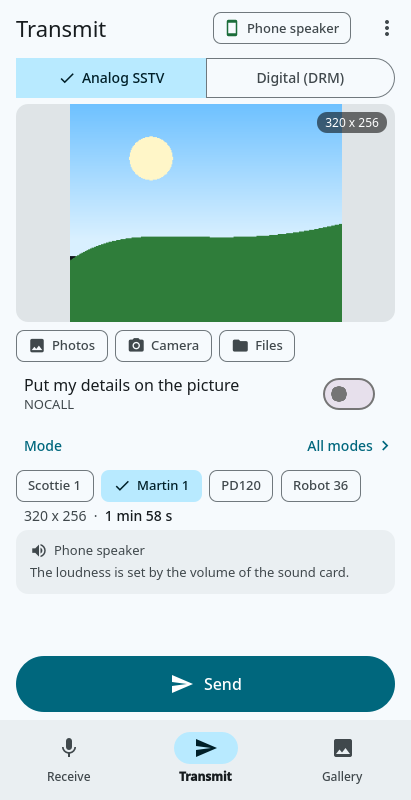
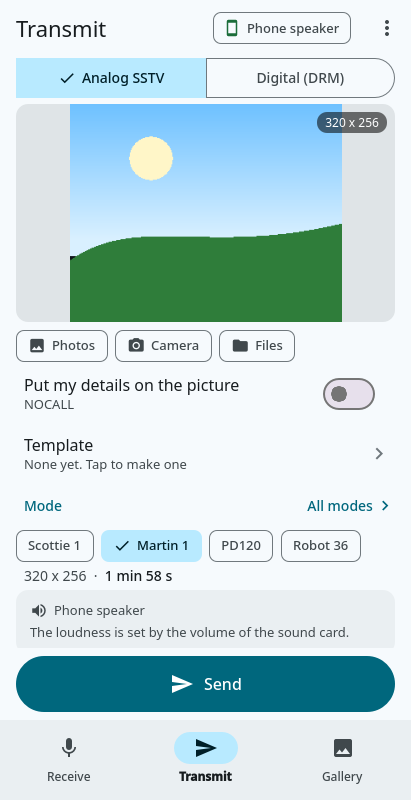
Android UI, stage 7 (a Template row on the Transmit screen, the User's Guide page, Settings > Templates goes to the Gallery).
Transmit: a Template row under the details switch shows the template on the picture; its sheet lists the templates with a small picture
of each (a tap chooses one and turns the template on), Edit this template, New template (the same starters as in the Gallery, now one
component). A template saved in the editor reaches the Transmit list and the Gallery as in the desktop dispatcher. The status bar icons stay
dark over the editor when it is opened from the black viewer. The keyboard goes with the name dialog.

Changed region(s): [[0.0584, 0.5312, 0.9051, 0.8125], [0.7591, 0.5312, 0.9051, 0.5625], [0.5255, 0.5938, 0.6423, 0.625]]

diff --git a/documentation/userguide/pages/android.html b/documentation/userguide/pages/android.html
@@ -63,6 +63,7 @@ title, the <strong>route chip</strong> that says where the sound goes (<em>Phone
 <ul>
 <li><strong>The picture.</strong> <span class="ui">Photos</span> opens Android's photo picker, <span class="ui">Camera</span> takes a picture, <span class="ui">Files</span> opens the file picker. A picture shared from another app (<em>Share &gt; QSSTV-Experimental</em>) arrives here too, and so does one chosen in the Gallery.</li>
 <li><strong>Put my details on the picture</strong> adds your call sign and the details below it; tap it to set who the picture is for and the report.</li>
+<li><strong>Template.</strong> The template that goes on the picture. Tap the row to choose another one from the list (with a small picture of each), to <span class="ui">Edit this template</span> or to make a <span class="ui">New template</span>; see <em>Templates</em> below.</li>
 <li><strong>The mode.</strong> The four buttons are favorites (Scottie 1, Martin 1, PD120, Robot 36); <span class="ui">All modes</span> lists every mode with its picture size and time. The time the transmission takes is always shown. On the <span class="ui">Digital (DRM)</span> side you choose one of the saved profiles and the size of the picture, with the estimated time.</li>
 <li><strong>Volume.</strong> The card at the bottom shows where the sound goes and the phone's media volume, with a slider; the volume keys of the phone work too. A red note appears when the volume is off.</li>
 <li><span class="ui">Send</span> starts the transmission. A full-screen page then shows the progress and the time left, keeps the screen on, and has <span class="ui">Stop</span>.</li>
@@ -82,6 +83,21 @@ title, the <strong>route chip</strong> that says where the sound goes (<em>Phone
 <li>Received pictures are also copied to the phone's own picture library, in <code>Pictures/QSSTV-Experimental</code>.</li>
 </ul>
 
+<h2>Templates</h2>
+<div class="shots">
+<figure><img src="../images/android-template-editor.png" alt="The template editor with a text chosen and its text, macros and size under the picture" loading="lazy"><figcaption>A text chosen: its text and size.</figcaption></figure>
+<figure><img src="../images/android-template-add.png" alt="The Add list: text, rectangle, ellipse, line, picture, replay window and color bar" loading="lazy"><figcaption>Add something.</figcaption></figure>
+</div>
+<p>A template puts your call sign, the report, the time and other details on a picture before it is sent. The editor shows the template over a sample picture, with sample values (<em>N0CALL</em>, <em>W1AW</em>, <em>595</em>) in place of the codes. <span class="ui">More &gt; Preview with sample data</span> switches to the codes themselves (<code>%m</code>, <code>%c</code>, <code>%r</code>).</p>
+<ul>
+<li><strong>Start.</strong> In the Gallery, on the <span class="ui">Templates</span> tab, <span class="ui">New template</span> offers a blank template and three starters. To change one you have, open it and tap <span class="ui">Edit</span>; from the Transmit screen use the <em>Template</em> row.</li>
+<li><strong>Choose</strong> an item with a tap. <strong>Move</strong> it by dragging it; it snaps to the middle and the edges of the picture. <strong>Resize</strong> it with the round handles (on a text that is not in a box the corners make the letters bigger or smaller), <strong>turn</strong> it with the handle above it (it snaps to every 45 degrees; two fingers also work), and use the small bar beside it to <span class="ui">Duplicate</span>, <span class="ui">Delete</span> or <span class="ui">Lock</span> it.</li>
+<li><span class="ui">Edit</span> opens the panel under the picture. <span class="ui">Text</span> has the words, chips for the codes (<span class="ui">All...</span> lists them with what they mean), the size, <span class="ui">Bold</span> and <span class="ui">Italic</span>. <span class="ui">Style</span> has the colors, the opacity, the edge, the rounded corners and the shadow. <span class="ui">Place</span> has the position, size and turn in numbers, with <span class="ui">+</span> and <span class="ui">&minus;</span> for small steps, and tells how the item follows when the picture is another size.</li>
+<li><span class="ui">Add</span> has text, rectangle, ellipse, line, picture, replay window (where the picture you reply to goes) and color bar. <span class="ui">Layers</span> lists the items, front first: tap one to choose it, use the arrows to move it forward or back, and the lock to keep it from being moved by accident.</li>
+<li><span class="ui">Undo</span> and <span class="ui">Redo</span> are at the top. The check mark saves; a new template asks for a name once. <span class="ui">More &gt; Save a copy as...</span> keeps the original. Leaving with unsaved changes asks <em>Keep the changes?</em></li>
+</ul>
+<p>Some things of the desktop template editor are not on the phone: gradients, skew, text box options, choosing several items, aligning, the grid and the import from MMSSTV. Templates made on a computer open here, and the ones made here open on the computer.</p>
+
 <h2>Settings</h2>
 <div class="shots">
 <figure><img src="../images/android-settings.png" alt="The settings list with Operator, Audio and radio, Position, Pictures and Advanced" loading="lazy"><figcaption>The settings list.</figcaption></figure>
@@ -93,7 +109,7 @@ title, the <strong>route chip</strong> that says where the sound goes (<em>Phone
 <li><span class="ui">Audio and radio</span>: the microphone and what the phone may do to it, the receive gain, the live input level, the speaker, the media volume, <span class="ui">Test sound</span>, and the radio control (see below).</li>
 <li><span class="ui">Position</span>: the phone's position for the pictures, the city and state lookup and the coordinate format.</li>
 <li><span class="ui">Pictures</span>: the file format of received pictures and whether to keep a copy of what you send.</li>
-<li><span class="ui">Advanced</span>: <span class="ui">Receive</span> (sensitivity, how much of a picture is kept), <span class="ui">CW and waterfall</span> (text, tone, speed and the markers). The other entries open the <em>classic settings</em>, the full list of options of the desktop program, until they have a page of their own.</li>
+<li><span class="ui">Advanced</span>: <span class="ui">Receive</span> (sensitivity, how much of a picture is kept), <span class="ui">CW and waterfall</span> (text, tone, speed and the markers). <span class="ui">Templates</span> goes to the Gallery. The other entries open the <em>classic settings</em>, the full list of options of the desktop program, until they have a page of their own.</li>
 </ul>
 
 <h2>The microphone and speaker of the phone</h2>
@@ -128,8 +144,8 @@ title, the <strong>route chip</strong> that says where the sound goes (<em>Phone
 </ul>
 
 <h2>What is not on the phone yet</h2>
-<p>The template editor and the calibration of the sound clock (both planned for the phone), the repeater and unattended beacon, FTP upload, the XML-RPC interface, the command line options, the update check (Google Play updates the program) and the AppImage and Windows installers.
-The classic settings reached from <span class="ui">Advanced</span> still hold the options that have no page of their own: the DRM profiles, the frequency list, the sound clock and the templates.</p>
+<p>The calibration of the sound clock (planned for the phone), the repeater and unattended beacon, FTP upload, the XML-RPC interface, the command line options, the update check (Google Play updates the program) and the AppImage and Windows installers.
+The classic settings reached from <span class="ui">Advanced</span> still hold the options that have no page of their own: the DRM profiles, the frequency list and the sound clock.</p>
 
 <h2>If something does not work</h2>
 <ul>

diff --git a/src/qml/ui/TemplateSheet.qml b/src/qml/ui/TemplateSheet.qml
@@ -1,0 +1,65 @@
+import QtQuick
+import QSSTV
+
+// The template that goes on the picture: choose another, change this one, or make a new one
+BottomSheet {
+    id: sheet
+    title: qsTr("Template")
+    signal newTemplate()
+    property var items: []
+    onOpenChanged: if (open) items = TxController.templates()
+
+    Text {
+        visible: sheet.items.length === 0
+        width: parent.width
+        text: qsTr("There are no templates yet.")
+        color: Theme.surfaceVariantOn; font.pixelSize: Theme.sp(14)
+        leftPadding: 24; rightPadding: 24; bottomPadding: 12
+    }
+    ListView {
+        id: list
+        width: parent.width
+        height: Math.min(contentHeight, 4 * 72)
+        interactive: contentHeight > height
+        clip: true
+        model: sheet.items
+        delegate: Item {
+            required property var modelData
+            width: list.width; height: 72
+            Rectangle { anchors.fill: parent; color: Theme.primaryContainer; visible: parent.modelData.current === true }
+            Rectangle {
+                id: thumb
+                x: 24; anchors.verticalCenter: parent.verticalCenter
+                width: 72; height: 56; radius: 8; color: Theme.surfaceHigh; clip: true
+                Image { anchors.fill: parent; source: parent.parent.modelData.thumb; fillMode: Image.PreserveAspectCrop; asynchronous: true; cache: false }
+            }
+            Text {
+                anchors.left: thumb.right; anchors.leftMargin: 16
+                anchors.right: tick.left; anchors.rightMargin: 8
+                anchors.verticalCenter: parent.verticalCenter
+                text: modelData.name; elide: Text.ElideRight
+                color: Theme.surfaceOn; font.pixelSize: Theme.sp(16)
+            }
+            Icon { id: tick; visible: modelData.current === true; path: Icons.check; color: Theme.primary
+                   anchors.right: parent.right; anchors.rightMargin: 24; anchors.verticalCenter: parent.verticalCenter }
+            TapHandler { onTapped: { TxController.chooseTemplate(parent.modelData.path); sheet.open = false } }
+            Accessible.role: Accessible.RadioButton
+            Accessible.name: modelData.name
+            Accessible.checked: modelData.current === true
+            Accessible.onPressAction: { TxController.chooseTemplate(modelData.path); sheet.open = false }
+        }
+    }
+    PreferenceRow {
+        visible: TxController.templateFile !== ""
+        icon: Icons.edit
+        title: qsTr("Edit this template")
+        summary: TxController.templateName
+        onClicked: { sheet.open = false; TemplateEditor.openFile(TxController.templateFile) }
+    }
+    PreferenceRow {
+        icon: Icons.add
+        title: qsTr("New template")
+        onClicked: { sheet.open = false; sheet.newTemplate() }
+    }
+    Item { width: 1; height: 12 }
+}

diff --git a/src/qml/ui/TxOptionsBlock.qml b/src/qml/ui/TxOptionsBlock.qml
@@ -6,6 +6,7 @@ import QSSTV
 Column {
     id: block
     signal openDetails()
+    signal openTemplates()
     signal openModes()
     signal openDigital()
     spacing: 4
@@ -38,6 +39,31 @@ Column {
             onToggled: TxController.useTemplate = checked
             Accessible.name: qsTr("Put my details on the picture")
         }
+    }
+
+    // which template: the sheet lists them, changes this one or begins a new one
+    Item {
+        width: parent.width
+        height: Math.max(56, tplCol.implicitHeight + 16)
+        Column {
+            id: tplCol
+            anchors.left: parent.left; anchors.leftMargin: 24
+            anchors.right: tplChevron.left; anchors.rightMargin: 12
+            anchors.verticalCenter: parent.verticalCenter
+            Text { text: qsTr("Template"); color: Theme.surfaceOn; font.pixelSize: Theme.sp(16); width: parent.width; wrapMode: Text.WordWrap }
+            Text {
+                text: TxController.templateName !== "" ? TxController.templateName : qsTr("None yet. Tap to make one")
+                color: Theme.surfaceVariantOn
+                font.pixelSize: Theme.sp(13)
+                width: parent.width
+                elide: Text.ElideRight
+            }
+        }
+        Icon { id: tplChevron; path: Icons.chevron; color: Theme.outline; anchors.right: parent.right; anchors.rightMargin: 20; anchors.verticalCenter: parent.verticalCenter }
+        TapHandler { margin: Theme.tapMargin(parent); onTapped: block.openTemplates() }
+        Accessible.role: Accessible.Button
+        Accessible.name: qsTr("Template") + ", " + (TxController.templateName !== "" ? TxController.templateName : qsTr("none yet"))
+        Accessible.onPressAction: { block.openTemplates() }
     }
 
     // analog: the mode, what it takes

diff --git a/src/qml/ui/TransmitScreen.qml b/src/qml/ui/TransmitScreen.qml
@@ -10,6 +10,7 @@ Item {
     property alias modesOpen: modes.open
     property alias digitalOpen: digital.open
     property alias toolsOpen: tools.open
+    property alias templatesOpen: templates.open
 
     ModeStrip {
         id: strip
@@ -51,7 +52,7 @@ Item {
                 width: parent.width
                 spacing: 4
                 TxPictureBlock { width: parent.width; maxCanvasHeight: body.height * 0.4 }
-                TxOptionsBlock { width: parent.width; onOpenDetails: details.open = true; onOpenModes: modes.open = true; onOpenDigital: digital.open = true }
+                TxOptionsBlock { width: parent.width; onOpenDetails: details.open = true; onOpenTemplates: templates.open = true; onOpenModes: modes.open = true; onOpenDigital: digital.open = true }
             }
         }
         Item {
@@ -65,7 +66,7 @@ Item {
                 contentHeight: wideOptions.height
                 clip: true
                 boundsBehavior: Flickable.StopAtBounds
-                TxOptionsBlock { id: wideOptions; width: parent.width; onOpenDetails: details.open = true; onOpenModes: modes.open = true; onOpenDigital: digital.open = true }
+                TxOptionsBlock { id: wideOptions; width: parent.width; onOpenDetails: details.open = true; onOpenTemplates: templates.open = true; onOpenModes: modes.open = true; onOpenDigital: digital.open = true }
             }
         }
     }
@@ -73,4 +74,6 @@ Item {
     DrmSheet { id: digital }
     ToolsSheet { id: tools }
     DetailsSheet { id: details }
+    TemplateSheet { id: templates; onNewTemplate: starters.open = true }
+    StartersSheet { id: starters }
 }

diff --git a/src/qml/ui/SettingsScreen.qml b/src/qml/ui/SettingsScreen.qml
@@ -144,7 +144,7 @@ Rectangle {
             PreferenceRow { icon: Icons.mic; title: qsTr("CW and waterfall identification"); summary: qsTr("Text, speed, tone"); chevron: true; onClicked: screen.page = 8 }
             PreferenceRow { icon: Icons.pin; title: qsTr("Frequencies"); summary: qsTr("SSTV and DRM calling frequencies"); chevron: true; onClicked: SettingsController.openClassic() }
             PreferenceRow { icon: Icons.volume; title: qsTr("Calibration"); summary: qsTr("Sound card clock: NTP or WWV"); chevron: true; onClicked: SettingsController.openClassic() }
-            PreferenceRow { icon: Icons.image; title: qsTr("Templates"); summary: qsTr("The overlays used on your pictures"); chevron: true; onClicked: SettingsController.openClassic() }
+            PreferenceRow { icon: Icons.image; title: qsTr("Templates"); summary: qsTr("Change them or make new ones in the Gallery"); chevron: true; onClicked: { AppModel.settingsOpen = false; GalleryModel.tab = 2; AppModel.screen = 2 } }
             PreferenceRow { icon: Icons.info; title: qsTr("Classic settings"); summary: qsTr("Every option on one list"); chevron: true; onClicked: SettingsController.openClassic() }
         }
 

diff --git a/src/qml/ui/GalleryScreen.qml b/src/qml/ui/GalleryScreen.qml
@@ -89,21 +89,5 @@ Item {
         Accessible.role: Accessible.Button
         Accessible.name: qsTr("New template")
     }
-    BottomSheet {
-        id: starters
-        title: qsTr("Start a new template")
-        Repeater {
-            model: TemplateEditor.starterNames()
-            delegate: PreferenceRow {
-                required property string modelData
-                required property int index
-                icon: index === 0 ? Icons.rectItem : index === 1 ? Icons.barItem : index === 2 ? Icons.textItem : Icons.replayItem
-                title: modelData
-                summary: index === 0 ? qsTr("Add everything yourself") : index === 1 ? qsTr("A bar along the bottom with your call sign")
-                       : index === 2 ? qsTr("Your call sign in white letters with a dark edge") : qsTr("Room for the picture you reply to")
-                onClicked: { starters.open = false; TemplateEditor.newTemplate(index) }
-            }
-        }
-        Item { width: 1; height: 12 }
-    }
+    StartersSheet { id: starters }
 }

diff --git a/src/qml/ui/TemplateEditorScreen.qml b/src/qml/ui/TemplateEditorScreen.qml
@@ -100,7 +100,7 @@ Rectangle {
         }
         Column {
             x: 56; width: parent.width - 56 - 3 * Theme.tap - 8; anchors.verticalCenter: parent.verticalCenter
-            Text { width: parent.width; text: TemplateEditor.isNew ? qsTr("New template") : TemplateEditor.name; color: Theme.surfaceOn; font.pixelSize: Theme.sp(17); font.weight: Font.Medium; elide: Text.ElideRight; Accessible.role: Accessible.Heading }
+            Text { width: parent.width; text: TemplateEditor.isNew ? qsTr("New template") : TemplateEditor.name; color: Theme.surfaceOn; font.pixelSize: Theme.sp(screen.width < 340 ? 15 : 17); font.weight: Font.Medium; elide: Text.ElideRight; Accessible.role: Accessible.Heading }
             Text { width: parent.width; text: TemplateEditor.isNew ? qsTr("Not saved yet") : TemplateEditor.dirty ? qsTr("Edited") : qsTr("Saved"); color: Theme.surfaceVariantOn; font.pixelSize: Theme.sp(12) }
         }
         Row {

diff --git a/src/qml/ui/StartersSheet.qml b/src/qml/ui/StartersSheet.qml
@@ -1,0 +1,21 @@
+import QtQuick
+import QSSTV
+
+// The ways to begin a new template: blank, or one of the starters
+BottomSheet {
+    id: sheet
+    title: qsTr("Start a new template")
+    Repeater {
+        model: TemplateEditor.starterNames()
+        delegate: PreferenceRow {
+            required property string modelData
+            required property int index
+            icon: index === 0 ? Icons.rectItem : index === 1 ? Icons.barItem : index === 2 ? Icons.textItem : Icons.replayItem
+            title: modelData
+            summary: index === 0 ? qsTr("Add everything yourself") : index === 1 ? qsTr("A bar along the bottom with your call sign")
+                   : index === 2 ? qsTr("Your call sign in white letters with a dark edge") : qsTr("Room for the picture you reply to")
+            onClicked: { sheet.open = false; TemplateEditor.newTemplate(index) }
+        }
+    }
+    Item { width: 1; height: 12 }
+}

diff --git a/src/qml/ui/Main.qml b/src/qml/ui/Main.qml
@@ -209,6 +209,7 @@ ApplicationWindow {
             else if (transmit.modesOpen) transmit.modesOpen = false
             else if (transmit.digitalOpen) transmit.digitalOpen = false
             else if (transmit.toolsOpen) transmit.toolsOpen = false
+            else if (transmit.templatesOpen) transmit.templatesOpen = false
             else if (about.open) about.open = false
             else if (transmit.detailsOpen) transmit.detailsOpen = false
             else if (AppModel.screen !== 0) AppModel.screen = 0

diff --git a/src/qml/txcontroller.cpp b/src/qml/txcontroller.cpp
@@ -6,6 +6,8 @@
 #include "sstvparam.h"
 #include "txfunctions.h"
 #include "txwidget.h"
+#include "gallerywidget.h"
+#include "thumbnailprovider.h"
 #include "dispatcher.h"
 #include "waterfalltext.h"
 #ifdef Q_OS_ANDROID
@@ -443,16 +445,58 @@ void TxController::showPictures(const QStringList &files)
   AppModel::instance()->setScreen(1);
 }
 
-void TxController::useTemplateFile(const QString &file)
+static QComboBox *templateBox()
+{
+  return txWidgetPtr ? txWidgetPtr->findChild<QComboBox *>(QStringLiteral("templatesComboBox")) : nullptr;
+}
+
+QString TxController::templateName() const
+{
+  const QComboBox *b=templateBox();
+  return b ? b->currentText() : QString();
+}
+
+QString TxController::templateFile() const
+{
+  const QComboBox *b=templateBox();
+  return (b && galleryWidgetPtr && b->currentIndex()>=0) ? galleryWidgetPtr->getTemplateFileName(b->currentIndex()) : QString();
+}
+
+QVariantList TxController::templates() const
+{
+  QVariantList l;
+  if(!galleryWidgetPtr) return l;
+  const QString current=templateFile();
+  const int n=galleryWidgetPtr->getFilenames().count();
+  for(int i=0;i<n;i++)
+    {
+      const QString path=galleryWidgetPtr->getTemplateFileName(i);
+      if(path.isEmpty()) continue;
+      QVariantMap m;
+      m["name"]=QFileInfo(path).completeBaseName();
+      m["path"]=path;
+      m["thumb"]=QStringLiteral("image://thumb/")+ThumbnailProvider::idFor(path);
+      m["current"]=(path==current);
+      l.append(m);
+    }
+  return l;
+}
+
+void TxController::chooseTemplate(const QString &file)
 {
   if(!txWidgetPtr) return;
-  if(QComboBox *b=txWidgetPtr->findChild<QComboBox *>(QStringLiteral("templatesComboBox")))
+  if(QComboBox *b=templateBox())
     {
       const QString name=QFileInfo(file).completeBaseName();
       for(int i=0;i<b->count();i++)
         if(b->itemText(i)==name) {b->setCurrentIndex(i); break;}
     }
-  setUseTemplate(true);
+  setUseTemplate(true);   // the choice of a template is the wish to have one on the picture
+}
+
+void TxController::useTemplateFile(const QString &file)
+{
+  chooseTemplate(file);
   AppModel::instance()->setScreen(1);
 }
 

diff --git a/src/qml/txcontroller.h b/src/qml/txcontroller.h
@@ -34,6 +34,8 @@ class TxController : public QObject
   Q_PROPERTY(QString totalText READ totalText NOTIFY progressChanged)            //!< what the whole transmission takes
   Q_PROPERTY(QString toolName READ toolName NOTIFY toolChanged)                  //!< while a tone, text or CW is sent: what it is; empty for a picture
   Q_PROPERTY(bool useTemplate READ useTemplateOn WRITE setUseTemplate NOTIFY detailsChanged)
+  Q_PROPERTY(QString templateName READ templateName NOTIFY detailsChanged)   //!< the template that goes on the picture; empty when there is none
+  Q_PROPERTY(QString templateFile READ templateFile NOTIFY detailsChanged)   //!< its file
   Q_PROPERTY(QString toCall READ toCall WRITE setToCall NOTIFY detailsChanged)
   Q_PROPERTY(QString toOperator READ toOperator WRITE setToOperator NOTIFY detailsChanged)
   Q_PROPERTY(QString report READ report WRITE setReport NOTIFY detailsChanged)
@@ -68,6 +70,8 @@ public:
   QString totalText() const;
   QString toolName() const {return m_toolName;}
   bool useTemplateOn() const;
+  QString templateName() const;
+  QString templateFile() const;
   void setUseTemplate(bool on);
   QString toCall() const;
   void setToCall(const QString &s);
@@ -117,6 +121,9 @@ public:
   Q_INVOKABLE void showPictures(const QStringList &files);
   //! a template from the gallery: it is the one put on the picture, and the Transmit screen shows
   Q_INVOKABLE void useTemplateFile(const QString &file);
+  //! the templates there are, [{name, path, thumb, current}], and the choice of one (the Transmit screen stays)
+  Q_INVOKABLE QVariantList templates() const;
+  Q_INVOKABLE void chooseTemplate(const QString &file);
   Q_INVOKABLE void send();
   Q_INVOKABLE void stop();
 

diff --git a/tests/qmlui/shot.cpp b/tests/qmlui/shot.cpp
@@ -197,7 +197,7 @@ int main(int argc, char **argv)
       win->setProperty("aboutOpen", false);
       for (const char *screenName : {"receiveScreen", "transmitScreen"})
         if (QQuickItem *s = findItem(win->contentItem(), screenName))
-          for (const char *prop : {"optionsOpen", "modesOpen", "detailsOpen", "digitalOpen", "toolsOpen", "open"})
+          for (const char *prop : {"optionsOpen", "modesOpen", "detailsOpen", "digitalOpen", "toolsOpen", "templatesOpen", "open"})
             if (s->property(prop).isValid()) s->setProperty(prop, false);
       TxController::instance()->setTestSending(-1);
       if (QQuickItem *v = findItem(win->contentItem(), "viewerScreen")) v->setProperty("infoOpen", false);
@@ -321,11 +321,12 @@ int main(int argc, char **argv)
           if (t) t->setProperty("digitalOpen", true);
           QTest::qWait(500);
         }
-      if (scene == "tx-modes" || scene == "tx-details")
+      if (scene == "tx-template") {txWidgetPtr->setupTemplatesComboBox(); QTest::qWait(500);}
+      if (scene == "tx-modes" || scene == "tx-details" || scene == "tx-template")
         {
           QQuickItem *t = findItem(content, "transmitScreen");
           if (!t) fprintf(stderr, "no transmitScreen item\n");
-          else if (!t->setProperty(scene == "tx-modes" ? "modesOpen" : "detailsOpen", true)) fprintf(stderr, "cannot set the sheet property\n");
+          else if (!t->setProperty(scene == "tx-modes" ? "modesOpen" : scene == "tx-template" ? "templatesOpen" : "detailsOpen", true)) fprintf(stderr, "cannot set the sheet property\n");
           QTest::qWait(500);
         }
       if (scene == "options")
